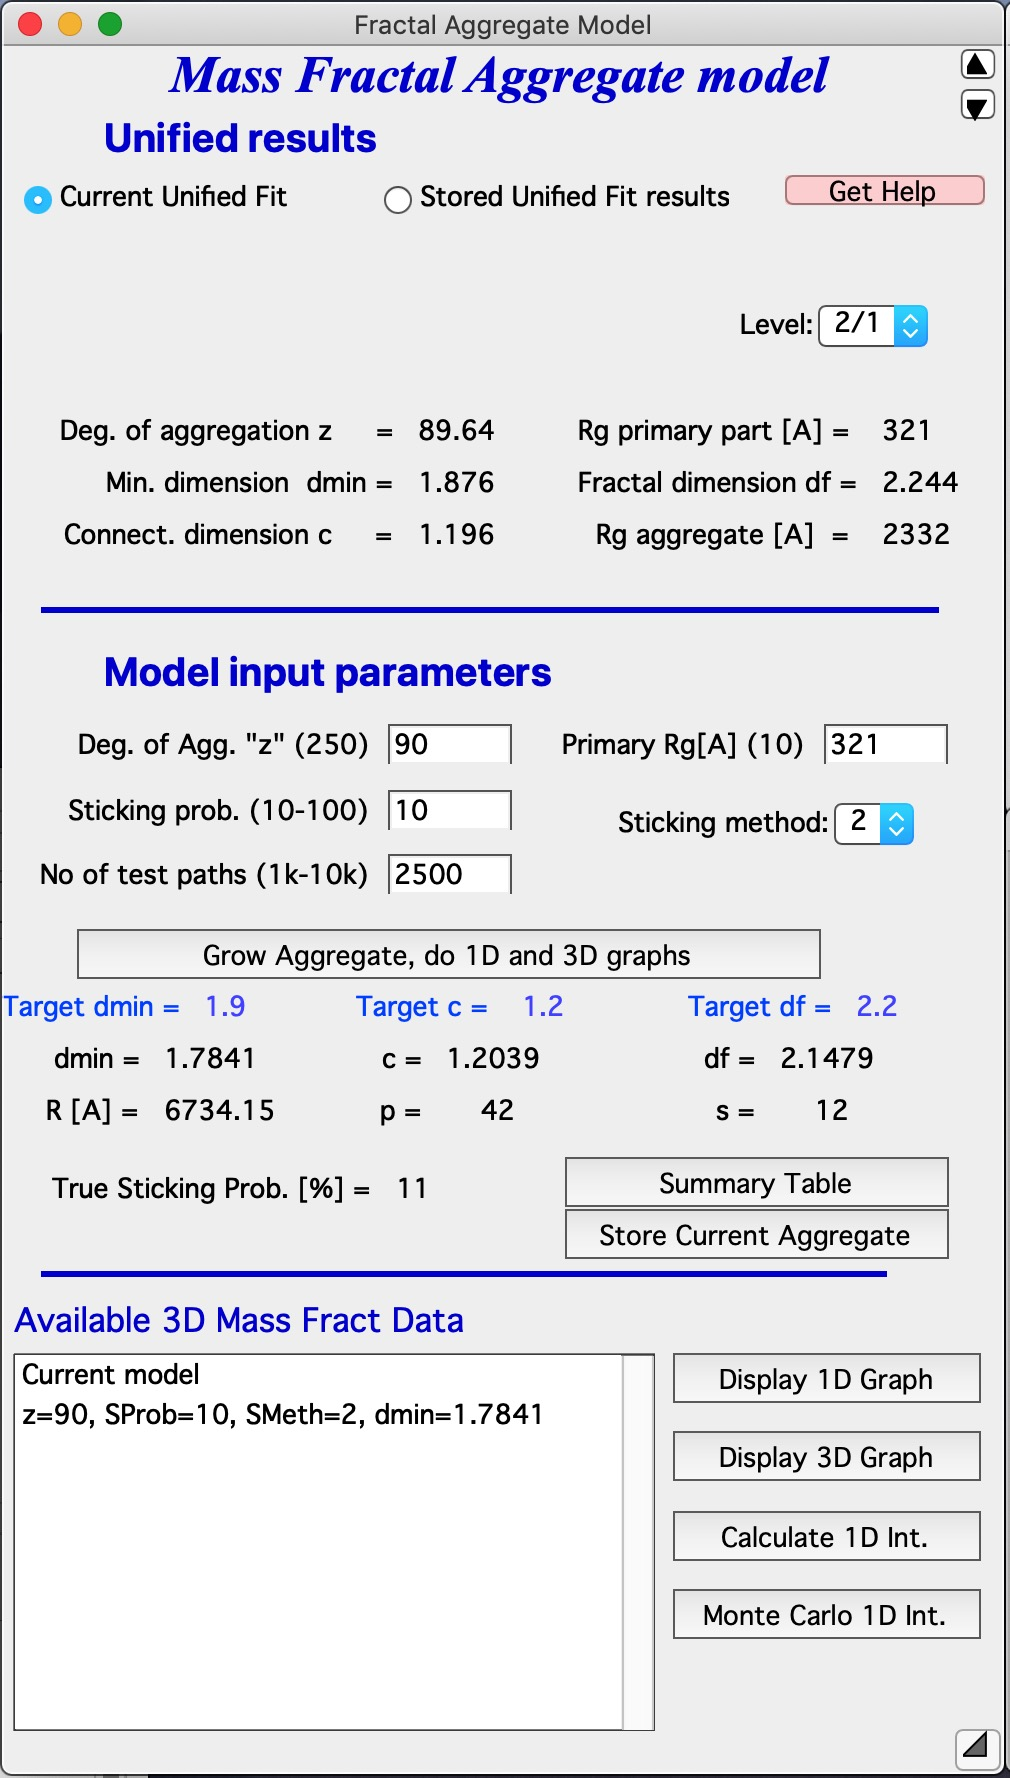
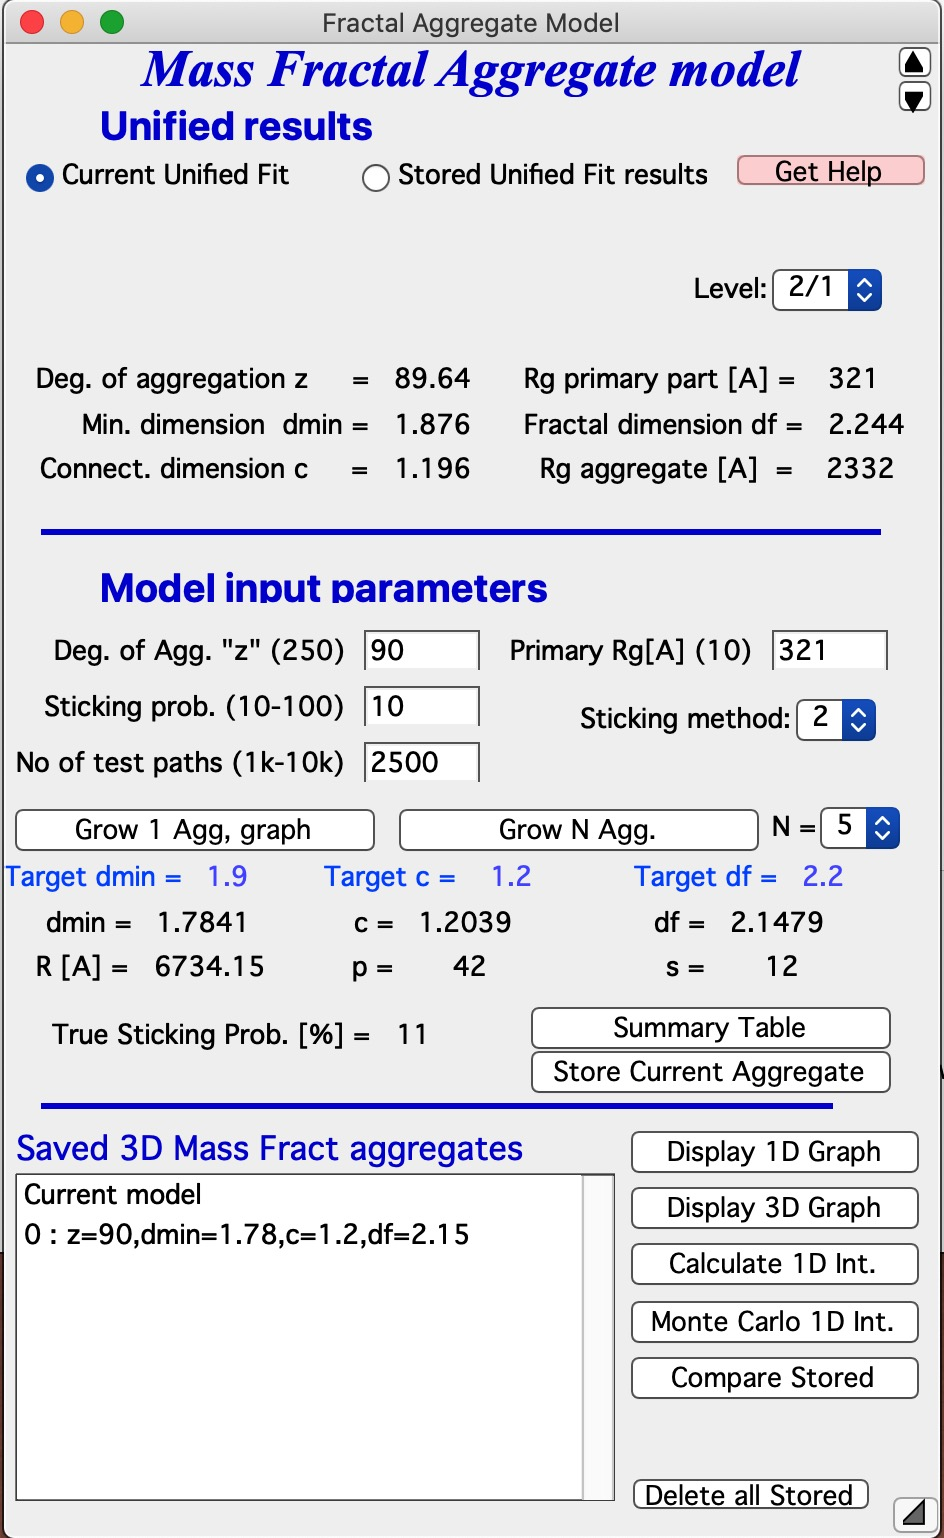
Updated 3DAggregate manual
Update 3DAggregate to current tool capabilities

Changed region(s): [[0.0, 0.0, 1.0, 1.0], [0.553, 0.156, 0.9523, 0.3121], [0.9216, 0.4057, 0.9523, 0.4369]]

diff --git a/docs/source/Irena/3DAggregate.rst b/docs/source/Irena/3DAggregate.rst
@@ -10,13 +10,11 @@ Mass Fractal Aggregate model
 
 This tool is applicable **ONLY to mass fractals** It is critical users understand its limitations and the meaning (and reliability of) mass fractal aggregate parameters as used in the tool. These are listed below.
 
-This is "visualization tool" - it is NOT fitting of data. Data are first fitted by Unified fit and, *assuming users have mass fractal*, fractal parameters describing the Mass Fractal system they have are calculated. Users then can use this tool to *RANDOMLY* generate a mass fractal aggregate. That is user generates using Monte Carlo method each time one of *MANY* possible shapes of this mass fractal. If the mass fractal shape has same or similar fractal parameters  properties it is assumed that it looks like what is inside the sample. So, this is NOT fitting, it is random shape generation and user need to vary *model growth parameters* until model with suitably similar mass fractal parameters is grown. Once proper growth parameters are found, user can grow number of representative shapes.
+This is "visualization tool" - it is NOT fitting of data. Data are first fitted by Unified fit and, *assuming users have mass fractal*, fractal parameters describing the Mass Fractal system they have are calculated. Users then can use this tool to *RANDOMLY* generate one or more mass fractal aggregates. That is: user generates using Monte Carlo method each time one of *MANY* possible shapes of this mass fractal. If the mass fractal shape has same or similar fractal parameters  properties it is assumed that it looks similar to what the aggregate inside the sample looks like. So, this is NOT fitting, it is random shape generation and user need to vary *model growth parameters* until model with suitably similar mass fractal parameters is grown. Once proper growth parameters are found, user can grow number of representative shapes.
 
 *Keep in mind, that this is really random process and same growth parameters will result in wide ranging models. One needs to run many times and see, how the results vary. Store results which are close to your target data, you may never recreate them.*
 
 *Some parts of the code generate randomly errors or failures. I will be trying to find a solution fo those which are errors, some are simply results of random growth. In any case, solution is to run model again. There are some specific conditions which seem to fail all the time. Select different parameters.*
-
-TODO: I plan to add some kind of scripting tool to enable easier model generation. This is monkey work. 
 
 .. _MassFractalAggregateModel.Parameters:
 
@@ -64,14 +62,14 @@ Here is example of data provided by one of the authors of the method and associa
    :width: 720px
 
 
-Now, when we have the Unified fit results above, we can either run directly the *Mass Fractal Aggregate* tool, or first save the results of Unified fit in a folder where the data came from (*Store in Data Folder*). Important is, that we have needed numbers which will guide our modeling. Here is the main panel::
+Now, when we have the Unified fit results above, we can either run directly the *Mass Fractal Aggregate* tool, or first save the results of Unified fit in a folder where the data came from (*Store in Data Folder*). Important is, that we have needed numbers which will guide our modeling. Here is the main panel:
 
-.. image:: media/3DAggregate1.jpg
+.. image:: media/3DAggregate2.jpg
    :align: center
-   :height: 500px
+   :width: 450px
 
 *Let me describe the content of this panel:*
-In the top part are options to use results from Unified fit using modified version of :ref:`standard data selection tools <DataSelection>` . This is simply lookup tool, user can as well pick the needed numbers from *Analyze Results* in *Unified fit*. Data can be selected from Stored Unified Fit results or - as in the picture above - from current Unified fit working directory, using whatever values are in the current Unified Fit tool. This is result of the last Unified fit fit or manual change...   By default we assume, that levels 2/1 represent the Mass Fractal, but it can be changed by using the popup "Level" as needed. NOTE: The values are updated after user selects or reselects the Level choices, so if the numbers are stale, just reselect that popup display and values will be updated. Based on these selections, the code extracts needed parameters and presents them in table - and the most useful ones are repeated below the "Grow Aggregate" in blue color. These are your target values, what your aggregate should have to represent the Mass fractal scattering. *The most interesting are z = degree of aggregation and d\ :sub:`f`.*
+In the top part are options to use results from Unified fit using modified version of :ref:`standard data selection tools <DataSelection>` . This is simply lookup tool, user can as well pick the needed numbers from *Analyze Results* in *Unified fit*. Data can be selected from Stored Unified Fit results or - as in the picture above - from current Unified fit working directory, using whatever values are in the current Unified Fit tool. This is result of the last Unified fit fit or manual change...   By default we assume, that levels 2/1 represent the Mass Fractal, but it can be changed by using the popup "Level" as needed. NOTE: The values are updated after user selects or reselects the Level choices, so if the numbers are stale, just reselect that popup display and values will be updated. Based on these selections, the code extracts needed parameters and presents them in table - and the most useful ones are repeated below the "Grow Aggregate" in blue color. These are your target values, what your aggregate should have to represent the Mass fractal scattering. *The most interesting are z = degree of aggregation and d\ :sub:`f` *
 
 The parameters user uses to control growth are:
 -----------------------------------------------
@@ -84,18 +82,25 @@ Using different combinations of *sticking probability* and *Sticking method* res
 
 *Note: lower Sticking probability and larger z values significantly increase run time.* Watch history area where progress is presented and final parameters are listed also.
 
-*This MAY BE SLOW* Push Button “\ **Grow Aggregate, do 1D and 3D graphs**\ ” and this will create the aggregate and display it in Gizmo as well as calculate 1D intensity data and overlay them over the data from source folder. Below is result which run on my high-end Macbook Pro for about 15 seconds:
+*This MAY BE SLOW* Push Button “\ **Grow 1 Agg, graph**\ ” and this will create the aggregate and display it in Gizmo as well as calculate 1D intensity data and overlay them over the data from source folder. Below is result which run on my high-end MacBook Pro for about 15 seconds:
 
 .. image:: media/3DAggregate4.jpg
    :align: center
    :width: 780px
 
 
-This is relatively pretty good result, it is unlikely that all parameters will be matched exactly - or even very close.  I have d\ :sub:`f` of about 2.15 (and need 2.2); c about 1.2 (and need 1.2); and d\ :sub:`min` about 1.78 (and need 1.9). I think this is a winner for this model. Also note, that the fit in teh 1D intensity vs Q is reasonably good.
+This is relatively pretty good result, it is unlikely that all parameters will be matched exactly - or even very close.  I have d\ :sub:`f` of about 2.09 (and need 2.2); c about 1.21 (and need 1.2); and d\ :sub:`min` about 1.72 (and need 1.9). I think this is close to a winner for this model. Also note, that the fit in the 1D intensity vs Q is reasonably good.
 
-Button “\ **Summary Table**\ ” displays Notebook with model summaries - and adds in there current results summary, see below. This can be used to follow how results depend on model input parameters adn amke notes -se my own note below the result.
+*NOTE* : growth of aggregate can fail if too compact particle is grown. When this happens, simply try again.
 
-Button “\ **Store Current Aggregate**\ ” stores the current aggregate result (including the 3D aggregate data) in separate folder, where they can then be found, displayed etc. It also adds results into the Table as the button "Summary Table". For stored 3D aggregates see list in Listbox below, I just added there the current result. Description in the table describes what parameetrs were used to create that mass fractal.
+*This WILL BE SLOW* Push Button “\ **Grow N Agg**\ ” and this will create N aggregates sequentially (N is selected in the pull down menu next to this button, default is 5), display it in Gizmo as well as calculate 1D intensity data, overlay them over the data from source folder, save the aggregate and store achieved results in notebook. These results can be the evaluated using button *Compare Stored*, see below.
+
+*NOTE* : When too compact particle is grown, it is skipped and nothing is saved. It is therefore common, that you end up with less than N saved aggregates to evaluate. 
+
+
+Button “\ **Summary Table**\ ” displays Notebook with model summaries - and adds in there current results summary, see below. This can be used to follow how results depend on model input parameters and make notes.
+
+Button “\ **Store Current Aggregate**\ ” stores the current aggregate result (including the 3D aggregate data) in separate folder, where they can then be found, displayed etc. It also adds results into the Table as the button "Summary Table". For stored 3D aggregates see list in Listbox below, I just added there the current result. Description in the table describes what parameters were used to create that mass fractal.
 
 
 .. image:: media/3DAggregate6.jpg
@@ -130,3 +135,21 @@ Button “\ **Monte Carlo 1D Int.**\ ” Calculates 1D intensity of the Aggregat
 .. image:: media/3DAggregate7.jpg
    :align: center
    :width: 380px
+
+
+Button “\ **Compare Stored.**\ ” If users run multiple aggregate growths (either manually or using *Grow N Agg.* button), thy may have many different aggregates stored. This is Monte Carlo method, so each time we run the model, we get slightly different result. It is therefore critical to be able to somehow evaluate which one is closest to the target parameters. This button will plot three main parameters of all saved aggregates to enable comparison. Note the numbering of the folders for easy navigation.
+
+
+.. image:: media/3DAggregate11.jpg
+   :align: center
+   :width: 380px
+
+In this plot one can easily see, that while most model match value for c, model 21 is closest for d\ :sub:`f`  and d\ :sub:`min`. We can then select the model 21 in the Listbox *Saved 3D Mass aggregates* and generate 3D and 1D models of it using the buttons. Here is the best result we got at  this time:
+
+
+.. image:: media/3DAggregate12.jpg
+   :align: center
+   :width: 680px
+
+
+Button “\ **Delete all Stored**\ ” This button will delete ALL stored 3D Aggregates. It also closes all graphs for this tool to be able to delete these stored aggregates.
